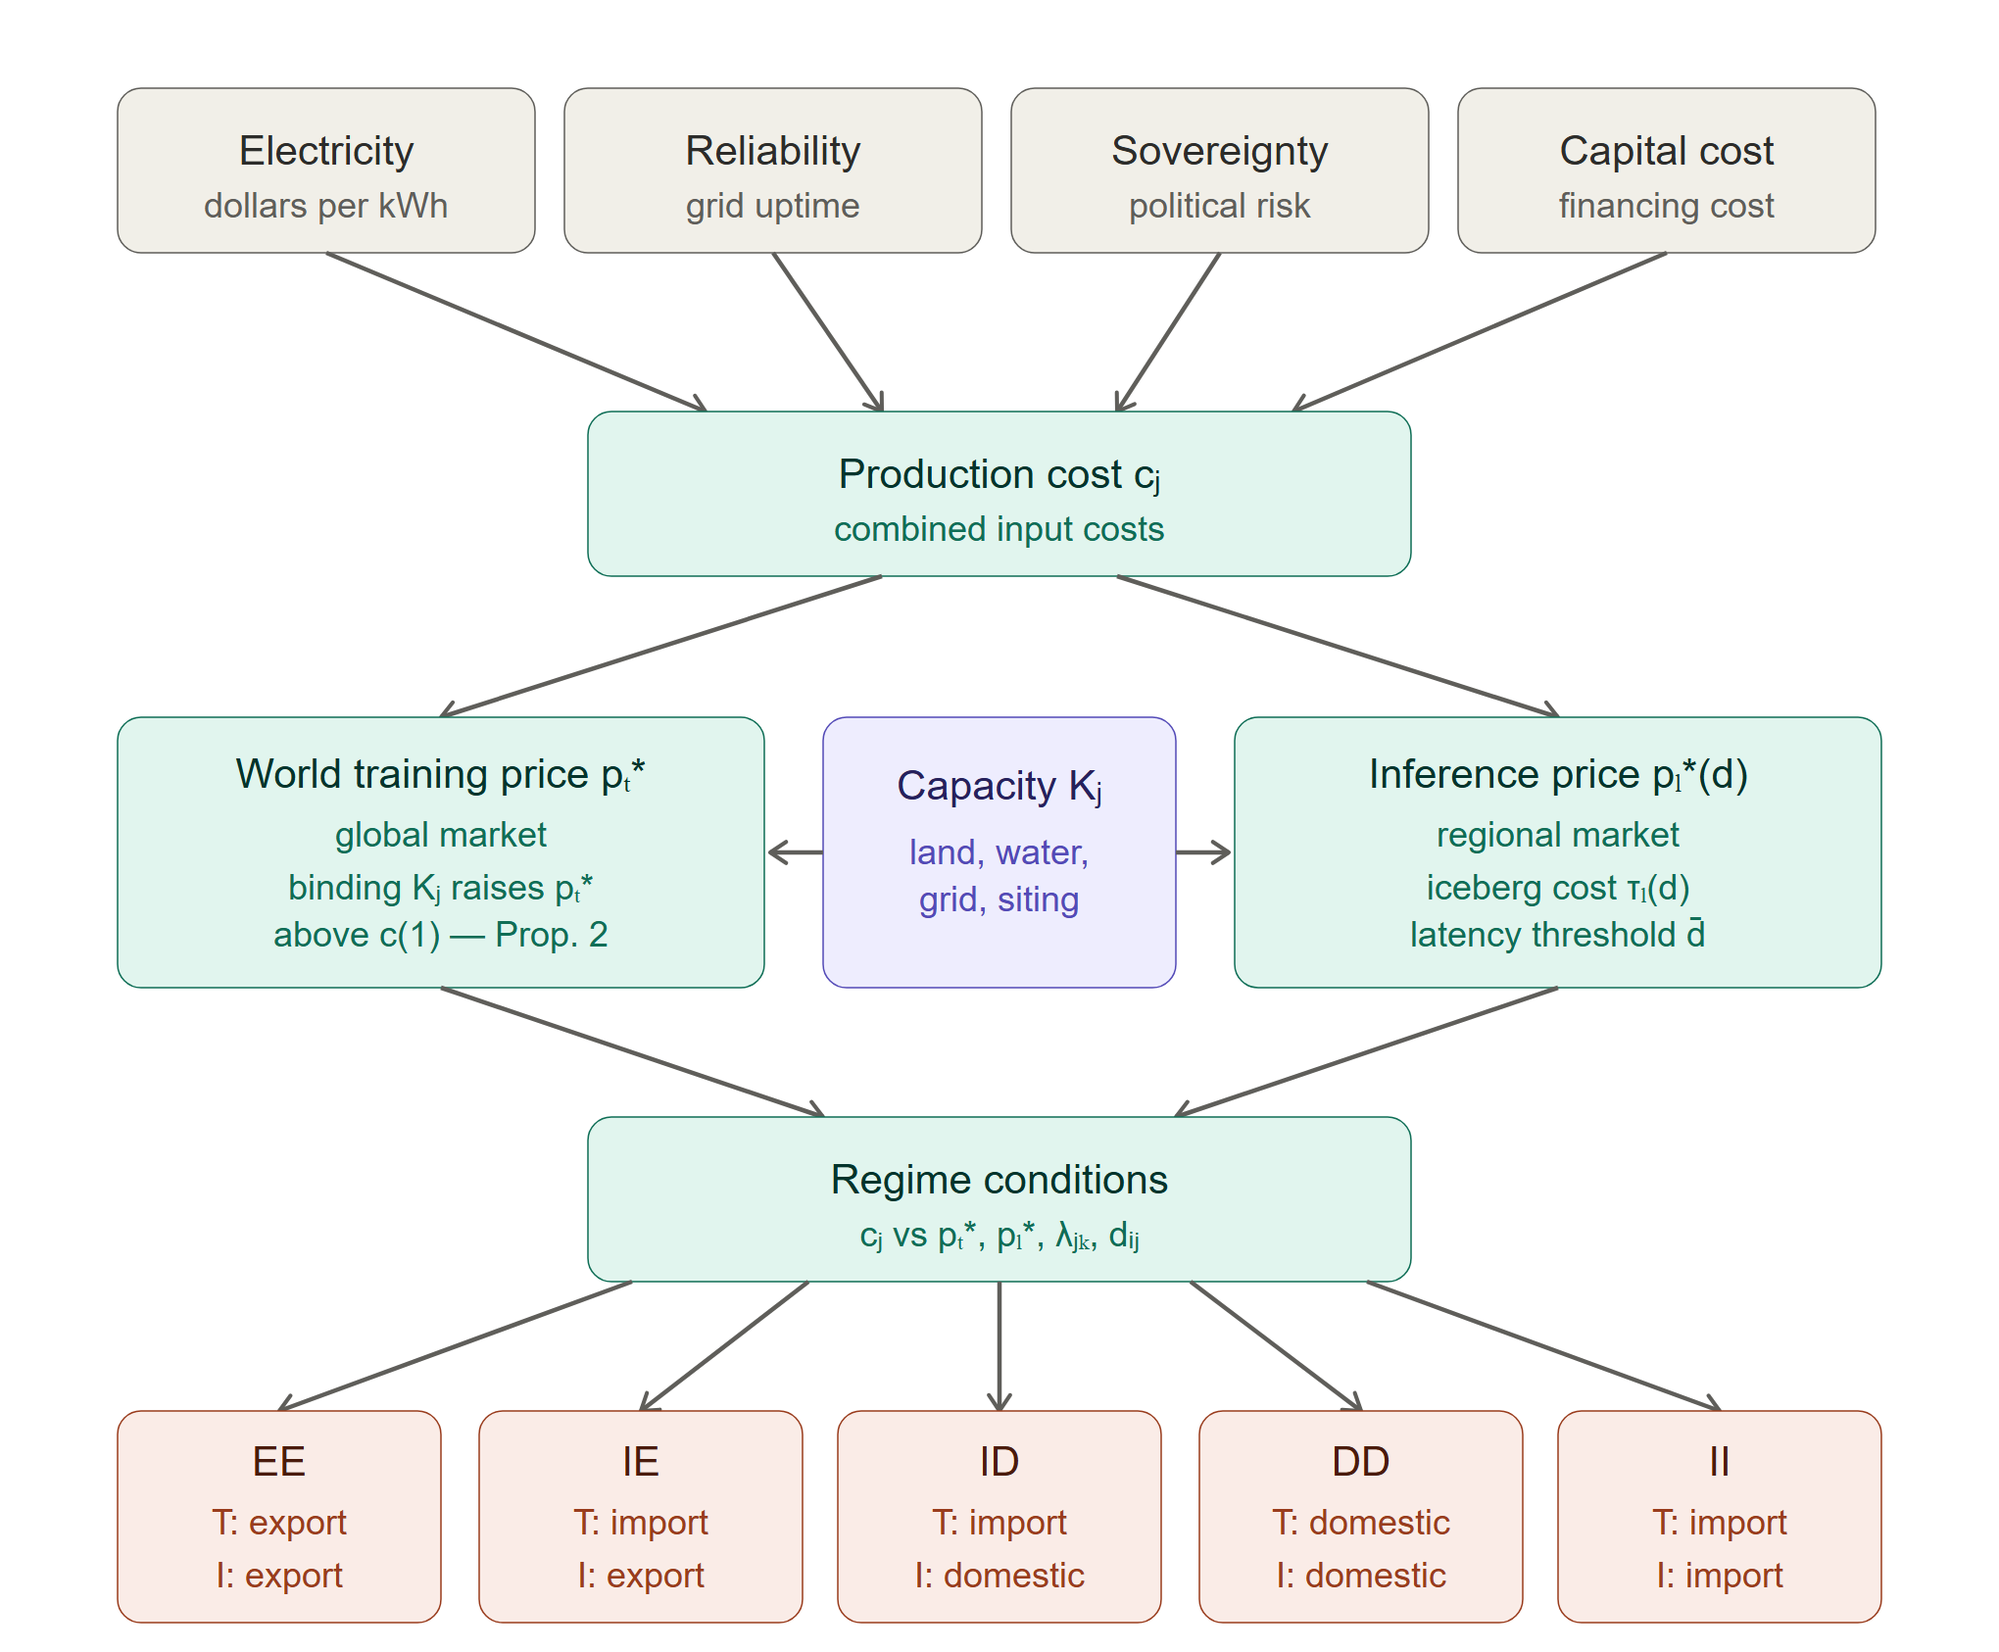
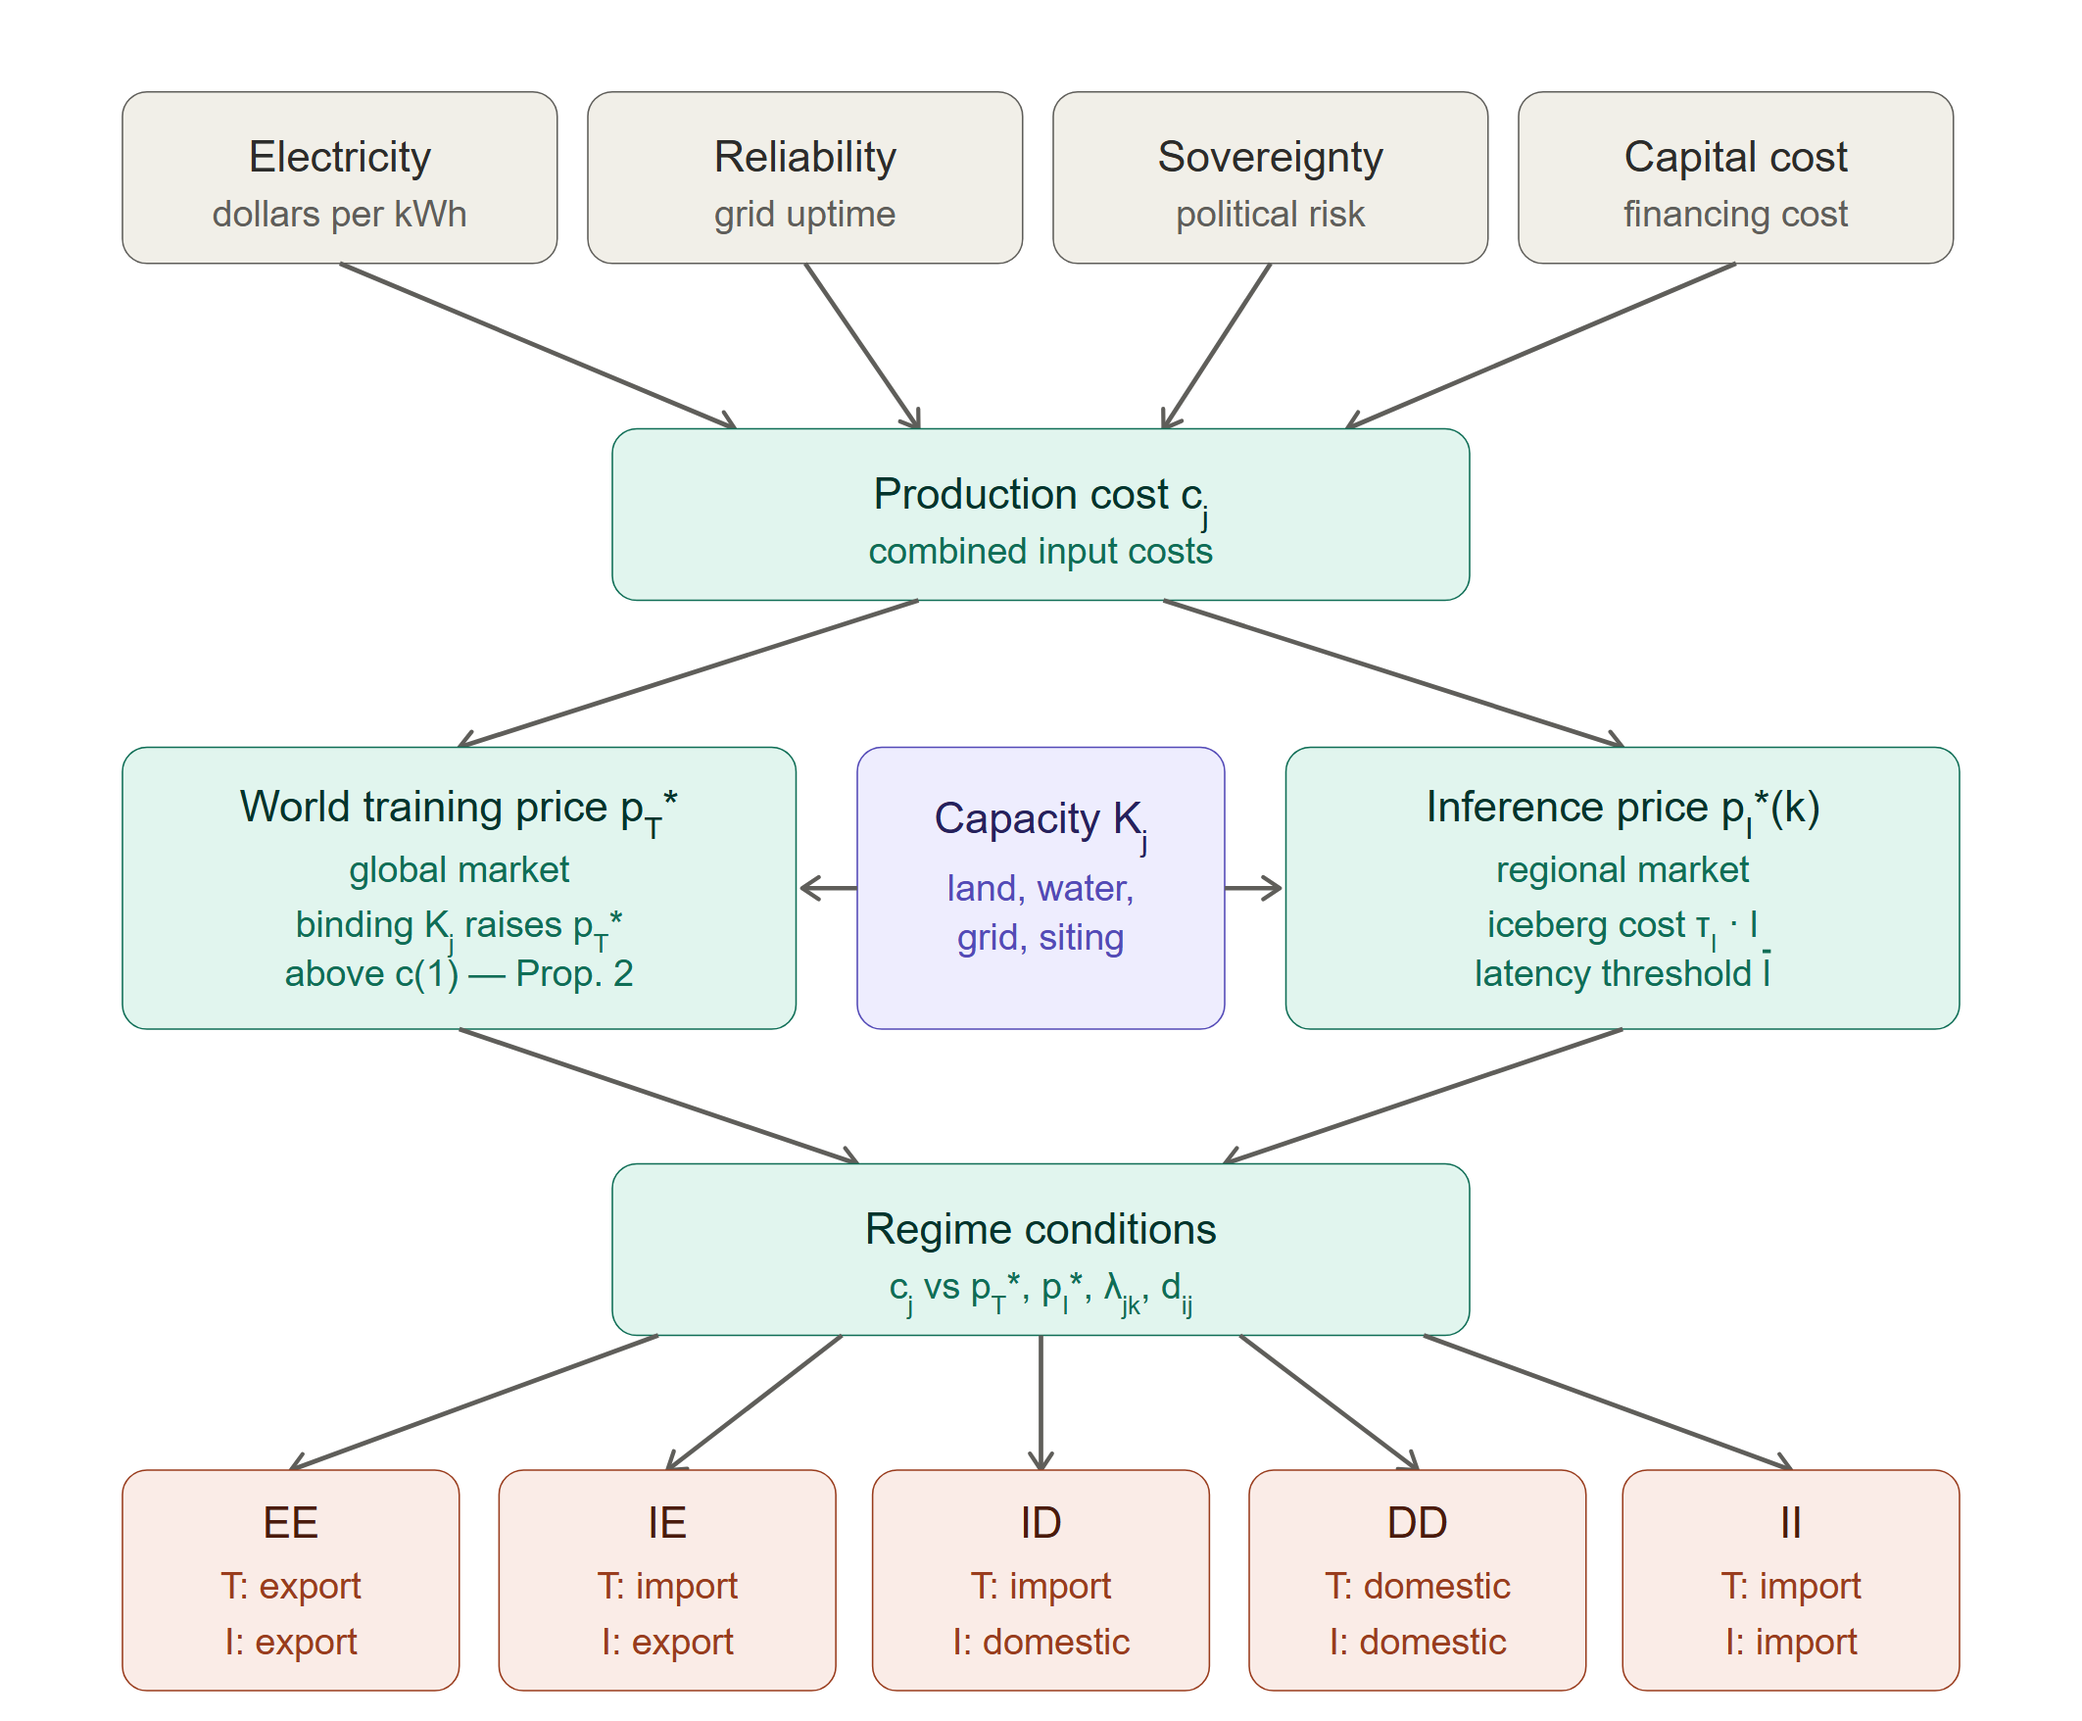
Fix Figure 1 black-box subscripts: use SVG tspan + Playwright rasterizer
The Unicode subscript codepoints used for c_j, p_T*, p_I*(k), τ_I·l, λ_jk,
d_ij, K_j, l̄ (U+2C7C ⱼ, U+2096 ₖ, U+1D62 ᵢ, U+209C ₜ) require DejaVu Sans
or Noto Sans — fonts that may be absent on Windows systems. When cairosvg
rasterizes the SVG with a font lacking those glyphs, the subscripts fall
back to .notdef and render as black boxes in the embedded PNG.

Replace every Unicode subscript codepoint with SVG tspan markup:
    <tspan baseline-shift="sub" font-size="0.7em">j</tspan>
This is font-agnostic — base glyphs come from Arial/Helvetica which every
renderer supports, and baseline-shift positions them as subscripts without
requiring any special glyph coverage. The overline on l̄ uses
<tspan text-decoration="overline">l</tspan> in place of the combining
macron (which had the same rendering issue).

Also switch the rasterizer from cairosvg (which requires cairo C libraries
not present on the host) to a Playwright headless-Chromium fallback. The
browser is the reference SVG renderer and handles baseline-shift tspan
markup correctly by construction. cairosvg kept as the last resort.

Font family changed from "DejaVu Sans" to "Arial, Helvetica, sans-serif"
since the tspan approach no longer requires the subscript-covering font.

Verified: PNG at 2125x1756 (300 DPI) renders all nine math symbols
correctly — c_j, K_j, p_T*, p_I*(k), τ_I·l, λ_jk, d_ij, l̄, and the
Regime-conditions band. 295 tests still pass.

diff --git a/Programs/generate_figures.py b/Programs/generate_figures.py
@@ -17,34 +17,47 @@ import argparse
 import os
 
 # ---------------------------------------------------------------------------
-# Notation constants — Unicode subscript characters
-# DejaVu Sans has glyphs for all of these; Arial/Helvetica do NOT.
+# Notation fragments — rendered with SVG <tspan> markup for subscripts
+# rather than Unicode subscript codepoints. The tspan approach is
+# font-agnostic: PNG rasterizers (cairosvg, Inkscape, librsvg) render the
+# glyphs correctly regardless of whether the local font has Unicode
+# subscript coverage. Unicode subscript codepoints (U+2096 ₖ, U+2C7C ⱼ,
+# U+1D62 ᵢ, U+209C ₜ) require DejaVu Sans or Noto; on systems without
+# those fonts they rasterize as black boxes — the bug this fixes.
 # ---------------------------------------------------------------------------
-FONT = "DejaVu Sans, sans-serif"
+FONT = "Arial, Helvetica, sans-serif"
 
-SUB_j = "\u2C7C"    # subscript j (producer country)
-SUB_k = "\u2096"    # subscript k (buyer country)
-SUB_t = "\u209C"    # subscript t (training — lowercase per Unicode)
-SUB_l = "\u2097"    # subscript l (inference — NOT subscript i)
-SUB_i = "\u1D62"    # subscript i (country index in distance)
-TAU = "\u03C4"      # tau
+TAU = "\u03C4"      # tau (Greek, in every standard font)
 LAMBDA = "\u03BB"   # lambda
-D_BAR = "d\u0304"   # d with combining macron
-MDASH = "\u2014"    # em dash
-CHECK = "\u2713"    # check mark
-CROSS = "\u2717"    # ballot X
+MDASH = "\u2014"
+CHECK = "\u2713"
+CROSS = "\u2717"
 
-# Pre-built notation fragments
-C_j = f"c{SUB_j}"                   # cⱼ
-K_j = f"K{SUB_j}"                   # Kⱼ
-P_T = f"p{SUB_t}*"                  # pₜ*
-P_l = f"p{SUB_l}*"                  # pₗ*
-P_l_d = f"p{SUB_l}*(d)"             # pₗ*(d)
-TAU_l = f"{TAU}{SUB_l}(d)"          # τₗ(d)
-LAM_jk = f"{LAMBDA}{SUB_j}{SUB_k}"  # λⱼₖ
-D_ij = f"d{SUB_i}{SUB_j}"           # dᵢⱼ
 
-REGIME_COND = f"{C_j} vs {P_T}, {P_l}, {LAM_jk}, {D_ij}"
+def _sub(base, sub):
+    """Render `base` followed by subscript `sub` using SVG tspan markup.
+    Works in any SVG renderer and any font."""
+    return (f'{base}<tspan baseline-shift="sub" font-size="0.7em">'
+            f'{sub}</tspan>')
+
+
+def _bar(letter):
+    """Render a letter with an overbar (macron) via SVG tspan."""
+    return (f'<tspan text-decoration="overline">{letter}</tspan>')
+
+
+# Pre-built notation fragments (SVG markup, embed inside <text>...</text>)
+C_j = _sub('c', 'j')                           # c_j
+K_j = _sub('K', 'j')                           # K_j
+P_T = _sub('p', 'T') + '*'                     # p_T*
+P_I = _sub('p', 'I') + '*'                     # p_I*
+P_I_k = _sub('p', 'I') + '*(k)'                # p_I*(k)
+TAU_I = _sub(TAU, 'I') + ' \u00b7 l'           # τ_I · l
+LAM_jk = _sub(LAMBDA, 'jk')                    # λ_jk
+D_ij = _sub('d', 'ij')                         # d_ij
+L_BAR = _bar('l')                              # l̄
+
+REGIME_COND = f"{C_j} vs {P_T}, {P_I}, {LAM_jk}, {D_ij}"
 
 
 def _css():
@@ -127,10 +140,10 @@ def make_figure1():
 
 <!-- Tier 3c: Regional inference price (teal, right) -->
 <rect class="teal-fill" x="420" y="244" width="220" height="92" rx="8" stroke-width="0.5"/>
-<text class="teal-title" x="530" y="268" text-anchor="middle">Inference price {P_l_d}</text>
+<text class="teal-title" x="530" y="268" text-anchor="middle">Inference price {P_I_k}</text>
 <text class="teal-sub"   x="530" y="288" text-anchor="middle">regional market</text>
-<text class="teal-sub"   x="530" y="306" text-anchor="middle">iceberg cost {TAU_l}</text>
-<text class="teal-sub"   x="530" y="322" text-anchor="middle">latency threshold {D_BAR}</text>
+<text class="teal-sub"   x="530" y="306" text-anchor="middle">iceberg cost {TAU_I}</text>
+<text class="teal-sub"   x="530" y="322" text-anchor="middle">latency threshold {L_BAR}</text>
 
 <line x1="280" y1="290" x2="262" y2="290" class="arr" marker-end="url(#arrow)"/>
 <line x1="400" y1="290" x2="418" y2="290" class="arr" marker-end="url(#arrow)"/>
@@ -266,12 +279,48 @@ def make_figure1b():
 
 
 def svg_to_png(svg_content, png_path, dpi=300):
+    """Rasterize SVG to PNG. Prefers a headless browser (Playwright) as the
+    reference renderer for <tspan baseline-shift> subscripts; falls back to
+    cairosvg if Playwright is unavailable. Browser rendering is font-agnostic
+    and produces identical output to what Word users will see."""
+    try:
+        _svg_to_png_playwright(svg_content, png_path, dpi)
+        return
+    except ImportError:
+        pass
     import cairosvg
     cairosvg.svg2png(
         bytestring=svg_content.encode("utf-8"),
         write_to=png_path,
         scale=dpi / 96.0,
     )
+
+
+def _svg_to_png_playwright(svg_content, png_path, dpi):
+    """Rasterize SVG using a headless Chromium browser."""
+    import re
+    from playwright.sync_api import sync_playwright
+    # Extract intrinsic width/height to size the viewport precisely
+    m_w = re.search(r'width="(\d+)"', svg_content)
+    m_h = re.search(r'height="(\d+)"', svg_content)
+    w_px = int(m_w.group(1)) if m_w else 800
+    h_px = int(m_h.group(1)) if m_h else 600
+    scale = dpi / 96.0
+    html = (
+        '<!DOCTYPE html><html><head><meta charset="utf-8">'
+        '<style>html,body{margin:0;padding:0;background:white;}</style>'
+        f'</head><body>{svg_content}</body></html>'
+    )
+    with sync_playwright() as p:
+        browser = p.chromium.launch()
+        page = browser.new_page(
+            viewport={'width': w_px, 'height': h_px},
+            device_scale_factor=scale,
+        )
+        page.set_content(html, wait_until='load')
+        svg_handle = page.query_selector('svg')
+        svg_handle.screenshot(path=png_path, omit_background=False)
+        browser.close()
 
 
 def main():
